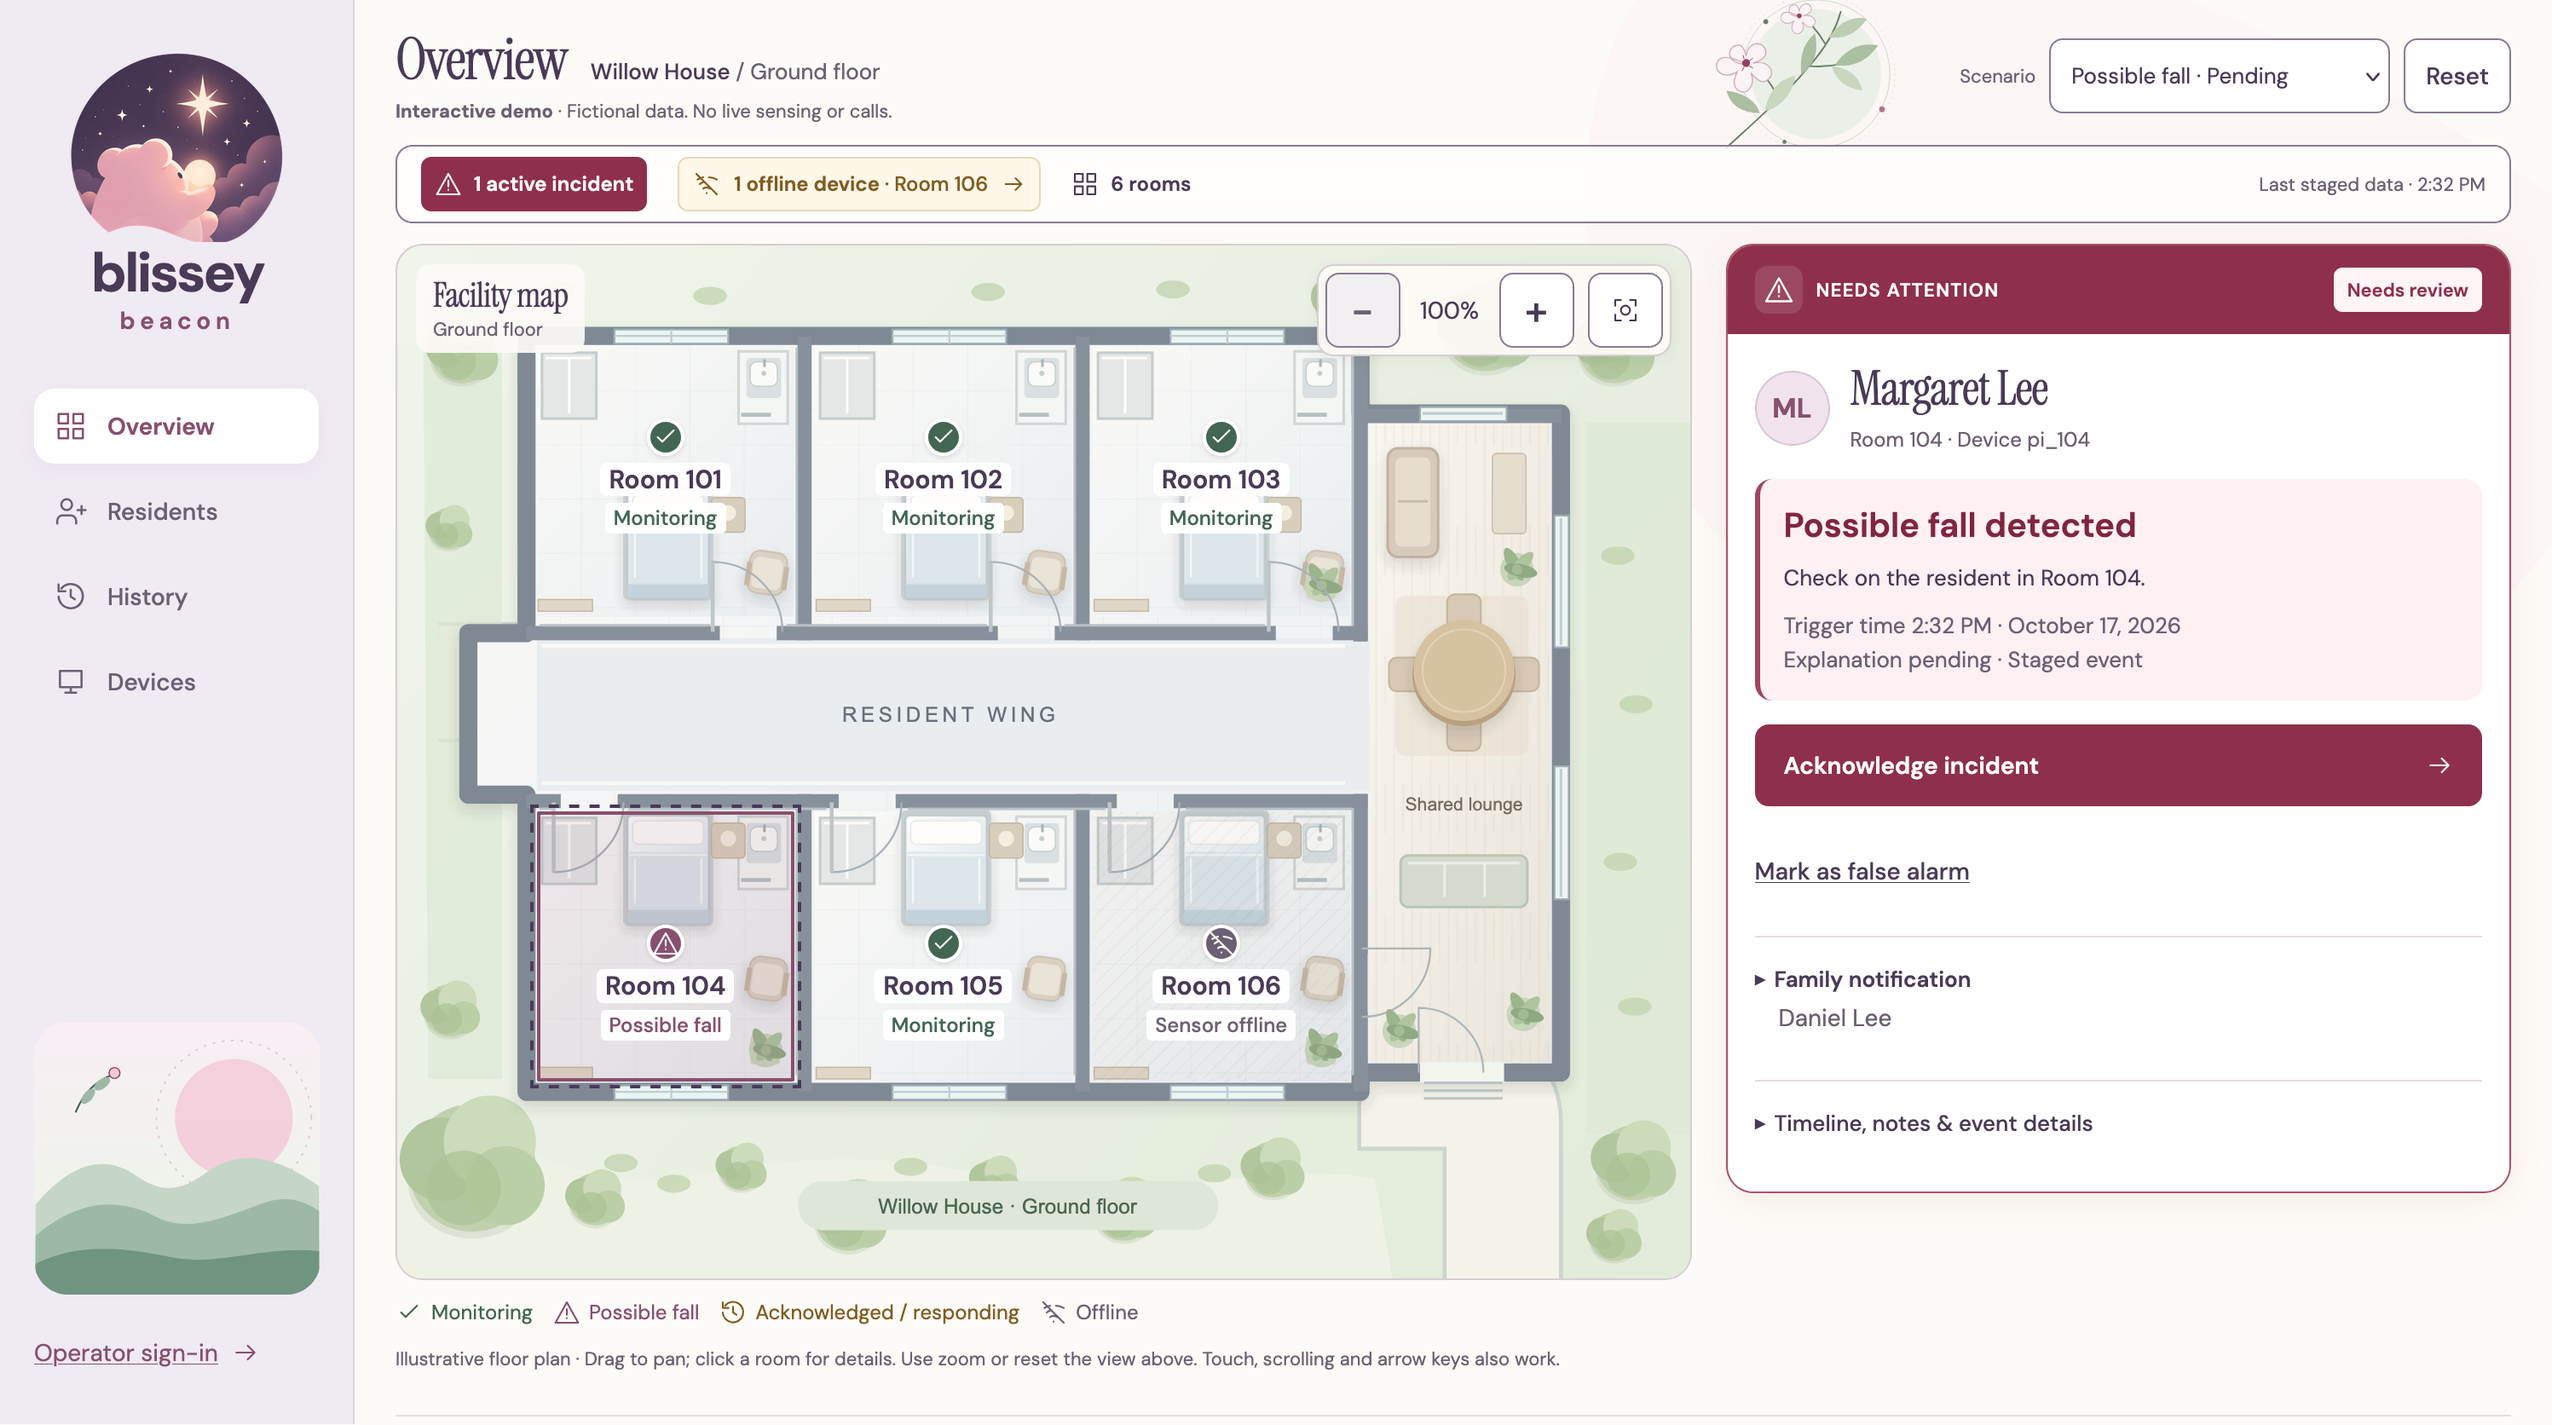
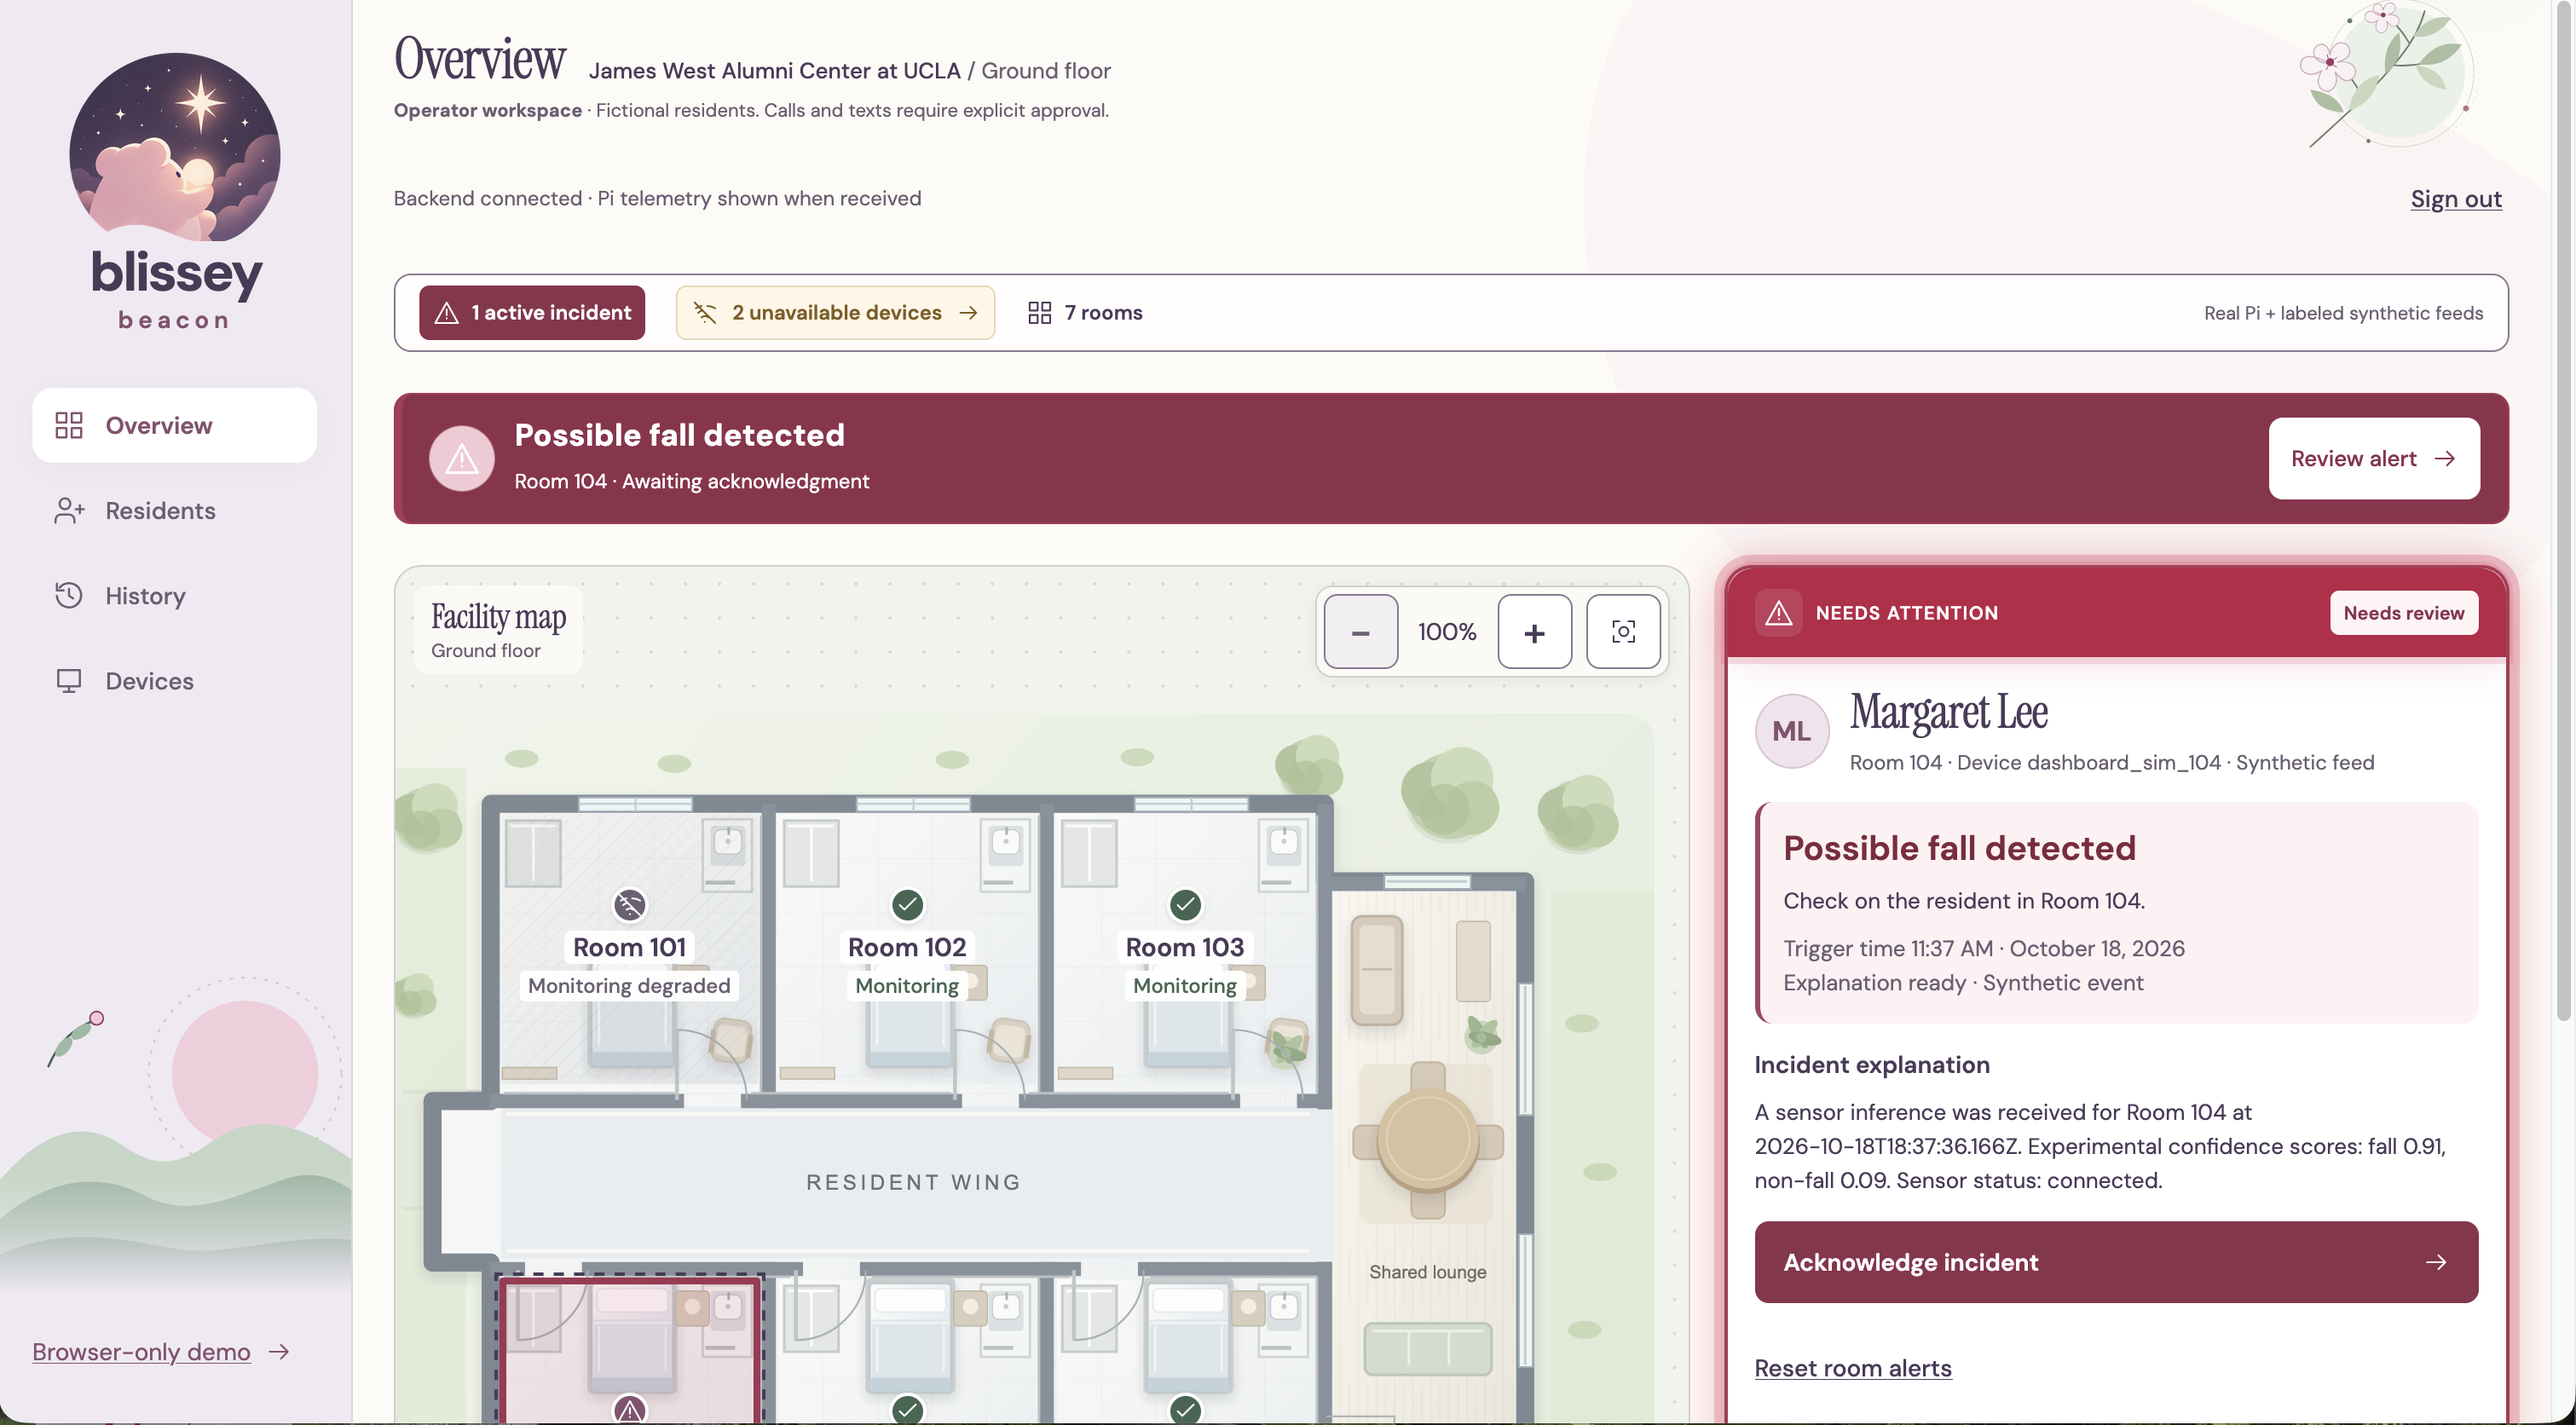
docs(readme): refresh connected dashboard screenshot

diff --git a/README.md b/README.md
@@ -13,8 +13,8 @@ Built for **LA Hacks 2026 · Beyond the Digital**.
 
 ![Blissey Beacon dashboard showing an illustrated facility map, room monitoring states, and a possible-fall incident awaiting caregiver review.](docs/images/dashboard.png)
 
-*Actual dashboard running the fictional “Possible fall · Pending” scenario.
-The browser-only demo at `/?demo=1` uses fixtures; its actions do not place calls or send messages.*
+*Connected operator dashboard showing a synthetic possible-fall alert in Room 104.
+Resident records are fictional; calls and texts require explicit operator approval.*
 
 ## Why we built it
 
